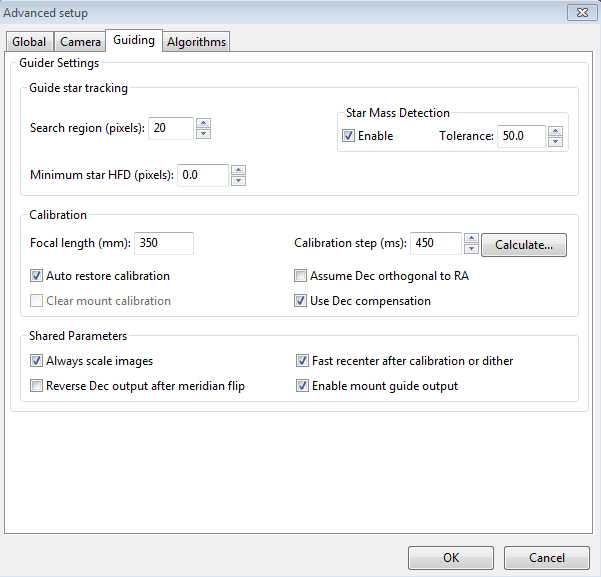
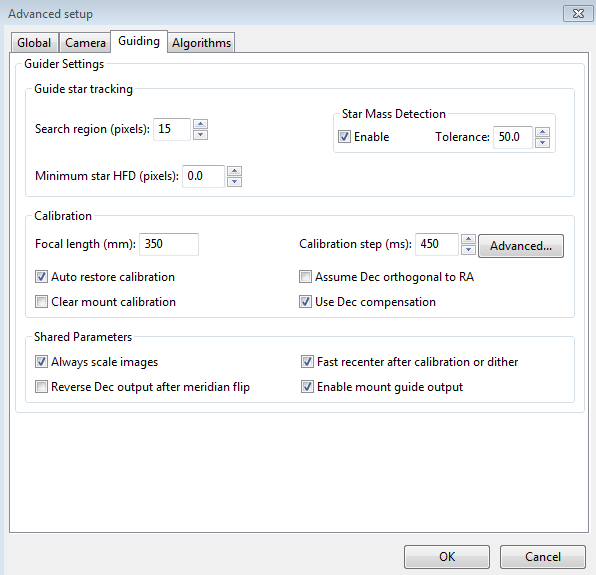
Help doc mods needed for 2.6.5dev3

Changed region(s): [[0.0, 0.0, 1.0, 1.0]]

diff --git a/help/Advanced_settings.htm b/help/Advanced_settings.htm
@@ -248,7 +248,7 @@ for
 each of those profiles. &nbsp;When you want to change binning factors,
 just switch to the profile that has the setting you want, and a dark
 library and/or bad-pixel map will be available. &nbsp; If you want to
-check that the camera is binning correctly, you can use the <a href="Visualization.htm#Stats_Display">Stats</a> window to confirm the firame size and current on-camera bin settings.<h3><a name="Guiding_Tab"></a>Guiding Tab</h3><span style="font-size: 10pt; font-family: Arial;"></span><img style="width: 602px; height: 567px;" alt="" src="Advanced_guiding.png"><br><br>The
+check that the camera is binning correctly, you can use the <a href="Visualization.htm#Stats_Display">Stats</a> window to confirm the firame size and current on-camera bin settings.<h3><a name="Guiding_Tab"></a>Guiding Tab</h3><span style="font-size: 10pt; font-family: Arial;"></span><img style="width: 596px; height: 575px;" alt="" src="Advanced_guiding.png"><br><br>The
 guiding tab shows the&nbsp; parameters used for calibration,
 star-tracking, and guiding behavior shared by all of the guide algorithms..<br><br>Guide Star Tracking<br><ul><li>'<a name="Search_region"></a>Search
 region' - specifies the size of the "tracking rectangle", in units of
@@ -393,16 +393,15 @@ has this problem (highly unlikely). &nbsp; Also,&nbsp; it will
 generally not detect&nbsp;slews that are initiated by the
 hand-controller. &nbsp;In any case, PHD2 will continue to try to track
 the guide star, so slews will typically result in lost-star
-notifications - beeping and flashing of the PHD2 image window.</li></ul>Calibration Step Calculator<br><br><img style="width: 319px; height: 525px;" alt="Calc_step_dialog" src="Advanced_calstep_calculator.png"><br><span style="font-size: 10pt; font-family: Arial;"></span><br>
-To
-use the <a name="Calculator_auto-step-size"></a>calculator,
-be sure the topmost three edit controls are
+notifications - beeping and flashing of the PHD2 image window.</li></ul><a name="Calculator_auto-step-size"></a>Detailed Calibration Parameters<br><br><img style="width: 592px; height: 426px;" alt="" src="Advanced_calstep_calculator.png"><br><span style="font-size: 10pt; font-family: Arial;"></span><br>
+To review or change&nbsp;calibration parameters,
+be sure the topmost four edit controls are
 correctly filled in. &nbsp;If you have already specified the focal
 length and
 the camera pixel size in the 'Global' and 'Camera' tabs respectively,
 those fields will already be populated in this form. &nbsp;If you are
 using an ASCOM connection to your mount, the fields for "Guide speed"
-and "Calibration declination" will also have the correct values.
+and "Calibration declination" will also show the correct values.
 &nbsp;Otherwise, you'll need to supply them yourself. &nbsp;The guide
 speed is specified as a multiple of sidereal speed - most mounts will
 use something
@@ -411,12 +410,15 @@ like
 changing the guide speed setting here never changes the guide speed
 setting in the mount - that can only be done via the mount driver or
 the hand-controller. &nbsp; If this field is already filled in,
-changing it will have no useful effect.</span> You
+changing it will have no useful effect.</span>
+You
 can
 leave the 'calibration steps' field at the default value of 12, which
 is likely to result in a good calibration. &nbsp;Use of a significantly
 smaller value raises the likelihood that seeing errors or small mount
-errors will cause calibration errors . &nbsp;As you change the values
+errors will cause calibration errors . &nbsp;You can also change the
+total calibration distance if you have some reason to think the default
+value of 25px is inadequate. &nbsp;As you change the values
 in these fields,&nbsp; <span style="font-style: italic;">PHD2</span>
 will recalculate your current image scale and a recommended value for
 the
@@ -427,14 +429,17 @@ be inserted into the calibration step-size field of the 'Guiding' dialog.
 pixel size fields in the 'Guiding' and 'Camera' tabs, so any changes you
 made in the calculator will be reflected there as well. &nbsp;However,
 this will not be done if you click on 'Cancel' in the calculator
-dialog. &nbsp;Note that PHD2 never changes the guide speed setting in
+dialog. &nbsp;Again, PHD2 never changes the guide speed setting in
 your mount regardless of what may be entered in the 'Guide Speed' field.<br><br>The
 goal of the calculator is to recommend a step-size that is likely to
 result in an accurate calibration without wasting too much time.
 &nbsp;There is no great precision involved in any of this, and there is
 nothing magic about the choice of 12 steps as a target. &nbsp;As long
 as you are getting successful calibrations without alert messages, the
-calibration step-size is probably good enough.<h3><a name="Algorithms_Tab"></a>Algorithms Tab</h3>
+calibration parameters can be left alone. &nbsp;If you've used the
+new-profile-wizard to build your equipment profile, there's rarely any
+reason to use the 'Advanced" button and the Calibration Parameters
+dialog.<h3><a name="Algorithms_Tab"></a>Algorithms Tab</h3>
 <span style="font-size: 10pt; font-family: Arial;"></span><img style="width: 593px; height: 571px;" alt="" src="Advanced_algorithms.png"><br><br>
 The algorithms tab can be used to select the guiding algorithms you
 want to use and to fine-tune the parameters associated with them. &nbsp;The parameters displayed will change significantly if
@@ -513,7 +518,11 @@ because the initial state of the Dec gear system is unknown - just let
 it stabilize before you actually start imaging. &nbsp;If you see
 recurring periods of Dec oscillation or the axis won't settle down,
 disable the compensation feature and submit your debug log file to the
-PHD2 support forum. &nbsp;<h4><a name="Declination-Uni-directional_guiding"></a>Uni-directional Declination Guiding</h4>As
+PHD2 support forum. &nbsp;It's important to note that the correct
+amount of Dec backlash compensation will often change depending on the
+scope pointing position. &nbsp;This can be caused by uneven gear wear
+on the Dec axis or by differences in the gravitational load being
+applied to the axis.<h4><a name="Declination-Uni-directional_guiding"></a>Uni-directional Declination Guiding</h4>As
 discussed elsewhere, some mounts have too much declination backlash to
 support guiding in both&nbsp;north and south directions. &nbsp;This
 situation can be mitigated by configuring PHD2 to guide in only one of
@@ -564,11 +573,11 @@ just steadily drifting&nbsp;off-target. &nbsp;Over the course of
 minutes or hours, you may notice the amount of drift is decreasing.
 &nbsp;This means you are slowly approaching the point of
 declination reversal and you should be prepared to change the Dec guide
-mode accordingly.</li><li>If you are dithering, set the dithering parameters to "RA-only" to avoid disrupting the Dec guiding.</li></ol><h3><a name="Other_Devices_Tab"></a>Other Devices Tab</h3><span style="font-size: 10pt; font-family: Arial;"></span><img style="width: 591px; height: 451px;" alt="" src="Advanced_other.png"><br><br>If
+mode accordingly.</li><li>If you are dithering, set the dithering parameters to "RA-only" to avoid disrupting the Dec guiding.</li></ol><h3><a name="Other_Devices_Tab"></a>Other Devices Tab</h3><span style="font-size: 10pt; font-family: Arial;"></span><img style="width: 597px; height: 329px;" alt="" src="Advanced_other.png"><br><br>If
 you are using either an adaptive optics or rotator device, the "Other
 Devices" tab will be shown. &nbsp;The upper section deals with the AO
 device if one is being used. &nbsp;You
-can use the first four parameters&nbsp;to control the
+can use these parameters&nbsp;to control the
 calibration process and the manner in which 'bump' operations are done.
 &nbsp;The 'calibration step' field tells <span style="font-style: italic;">PHD2</span> the amount to move the
 tip/tilt element&nbsp;in each of the up/down/left/right directions, in
@@ -588,12 +597,18 @@ these increments. &nbsp;If the bump operation has begun and the guide
 star remains outside the "bump percentage" area, <span style="font-style: italic;">PHD2</span>
 will increase the
 bump size until the guide star is back within that range.
-&nbsp;Additional movement from that point to the&nbsp;center position will
+&nbsp;Additional movement from that point to the&nbsp;center position
+will
 continue at the specified "bump step size". &nbsp;This complexity is
 required in order to maintain good guiding, with no elongated stars,
 even as the mount is being bumped. &nbsp;During the bump operation, the
 AO is continuing to make corrections, so the long "mount bump" is
-continuously&nbsp;offset by adjustments in the AO.<br><br>The
+continuously&nbsp;offset by adjustments in the AO. &nbsp;The 'AO
+Travel' field specifies the number of steps the AO can make on each
+axis. &nbsp;The default value works well for most SX AO devices but in
+some cases it may be too large. &nbsp;If you encounter problems during
+AO calibration where the AO hits its limits, you can adjust the 'AO
+Travel' amount downward. &nbsp; <br><br>The
 'Bump on dither' option tells PHD2 to bump the mount when a dither
 command is received and thus move the guide star back closer to the
 center position of the AO. &nbsp;The
@@ -604,7 +619,13 @@ independently enable/disable either the guide commands to the tip/tilt
 device or the
 'bump' guide commands to the mount. &nbsp;The same principle holds for
 the 'Clear AO calibration' option - that will force a recalibration of
-the AO without affecting calibration of the mount.<br><br>When an AO is in use, the 'Algorithms' tab will only show choices for controlling the tip/tilt optical element in the AO
+the AO without affecting calibration of the mount. &nbsp;The 'Mount
+Backlash Compensation' controls let you apply PHD2 Dec backlash
+compensation when mount bumps are done. &nbsp;This can help speed up
+large dither operations, but it's only appropriate if the mount has a
+limited amount of Dec backlash. You should use the Guiding Assistant to
+measure your Dec backlash and see what it recommends with regard to
+using Dec backlash compensation.<br><br>When an AO is in use, the 'Algorithms' tab will only show choices for controlling the tip/tilt optical element in the AO
 device
 itself.<br><br><img style="width: 590px; height: 450px;" alt="" src="Advanced_other_Algo.png"><br><br>Since
 the
